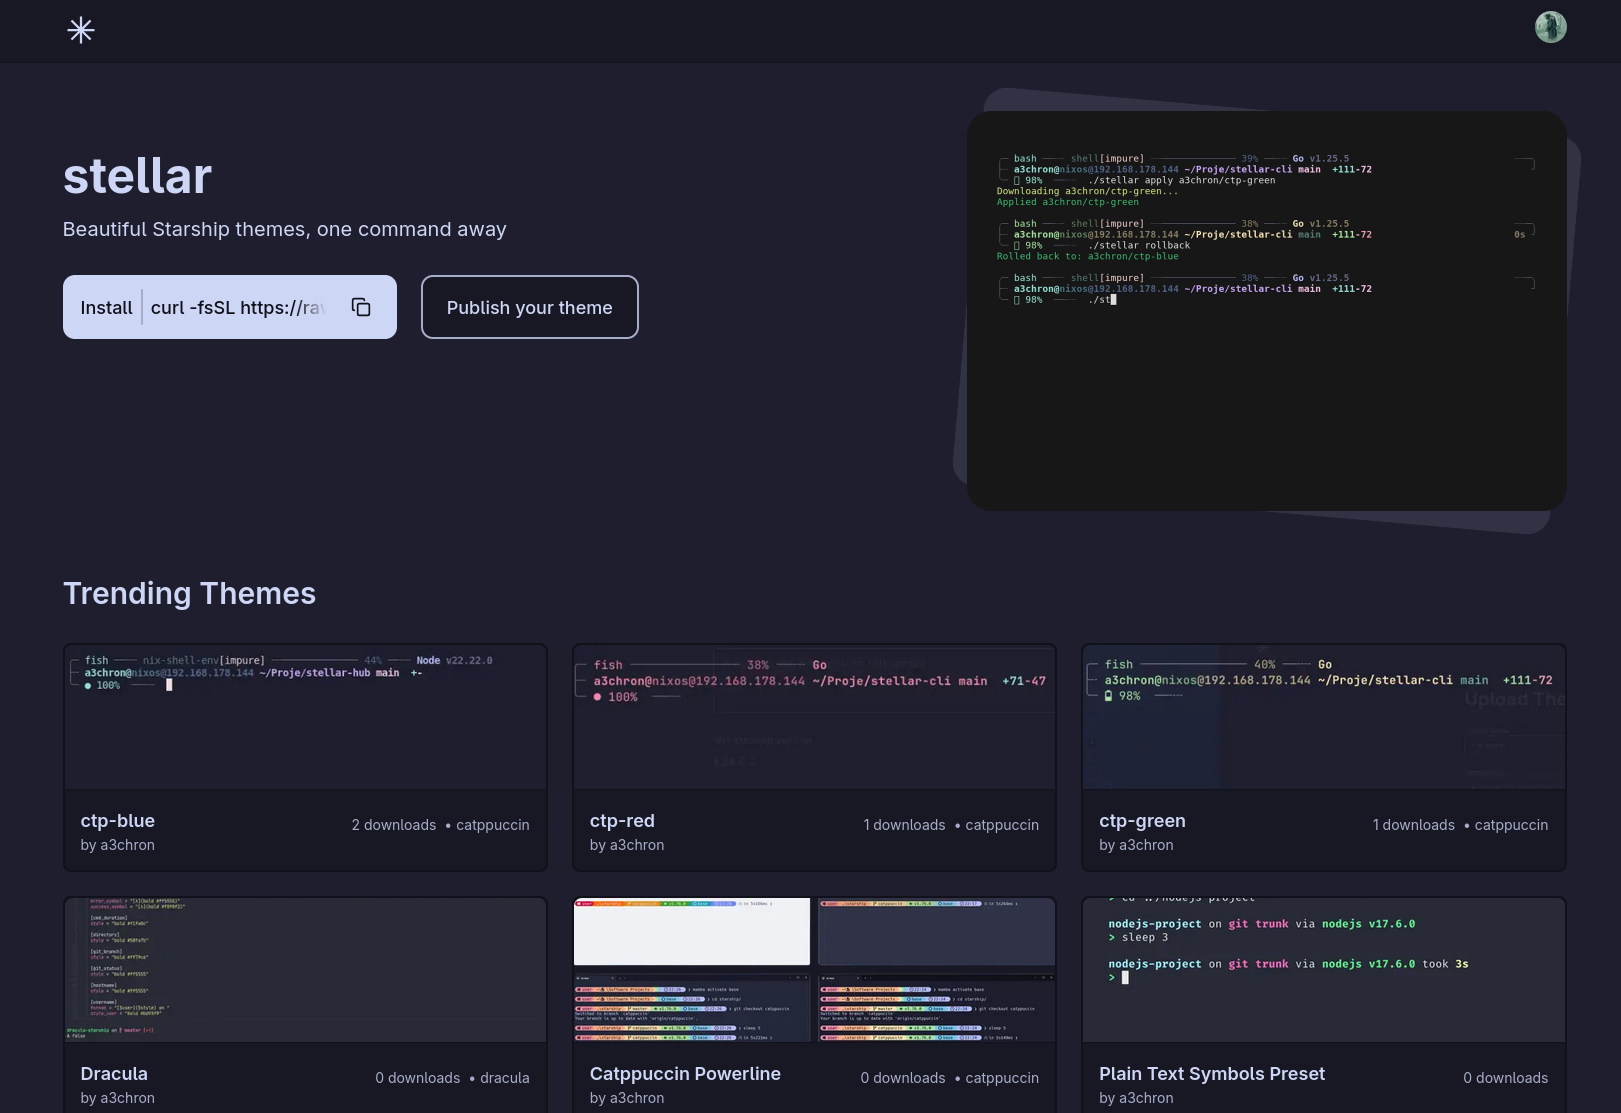
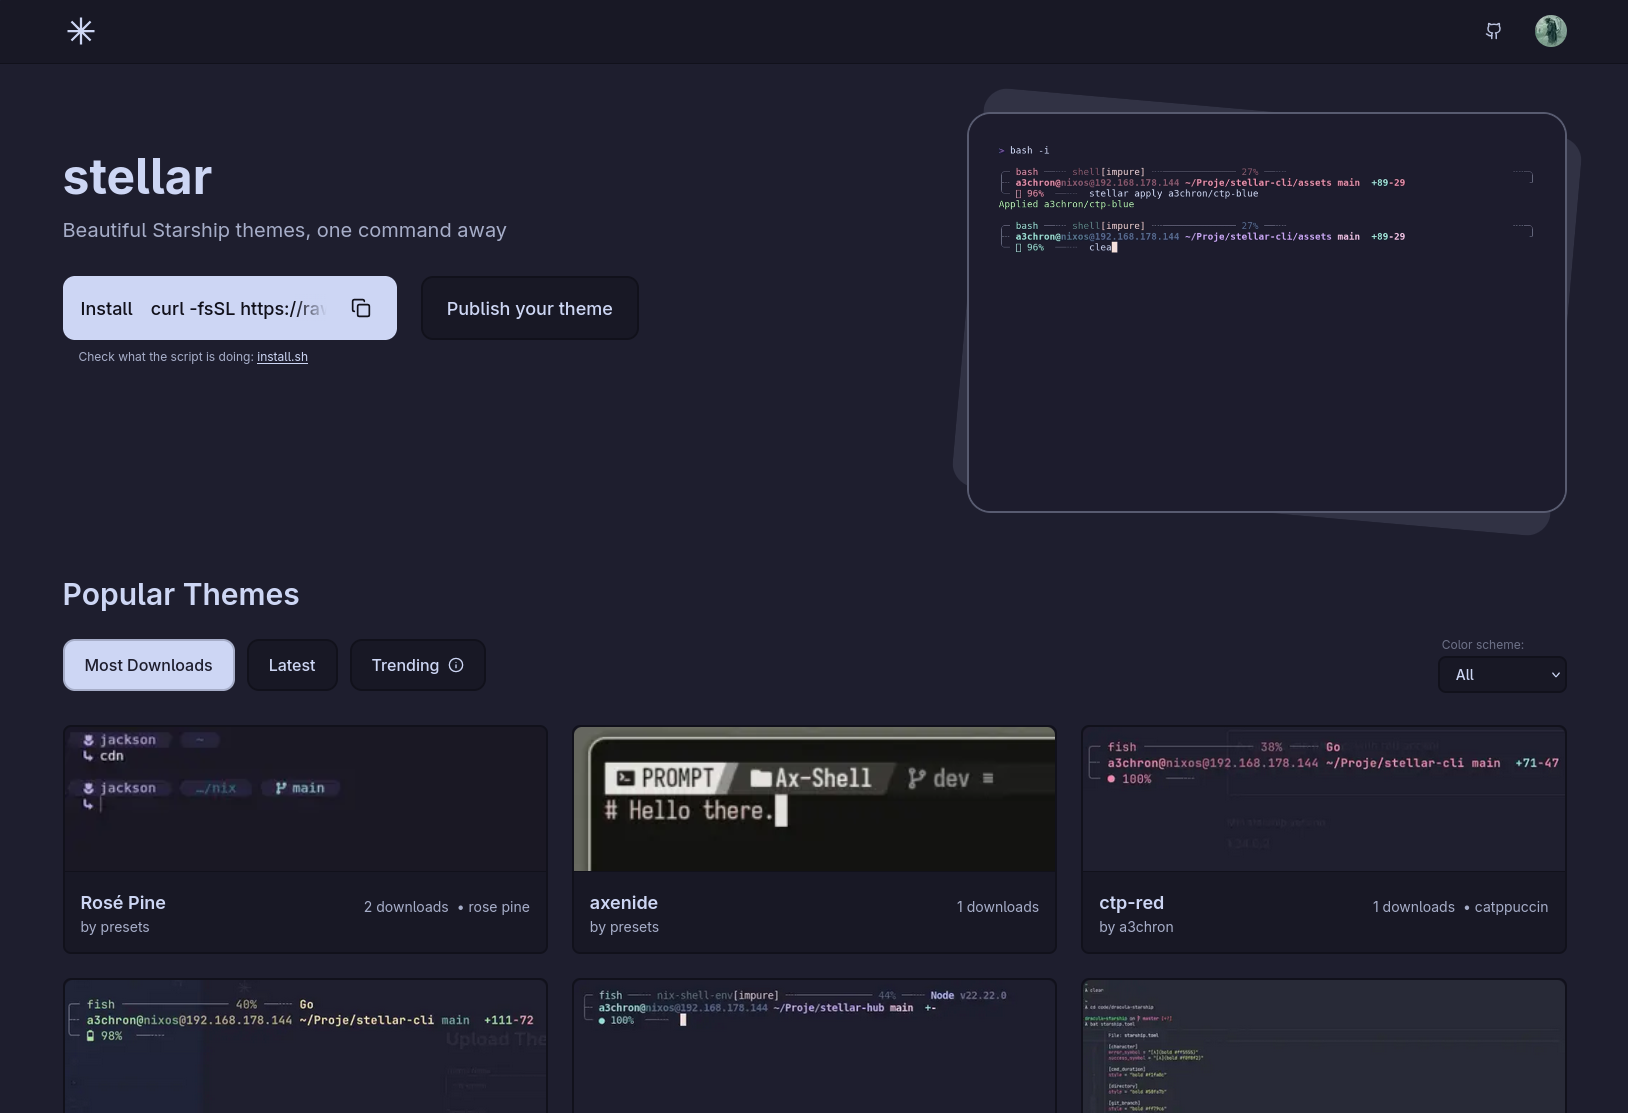
docs: add theme detail screenshot, update hub scrot

diff --git a/README.md b/README.md
@@ -2,7 +2,14 @@
 Easily get and switch between starship configs
 
 ![stellar cli demo](assets/demo.gif)
-![stellar hub](assets/web-hub.png)
+<table>
+  <tbody>
+    <tr>
+      <td><img src="assets/web-hub.png" alt="web hub preview" /></td>
+      <td><img src="assets/web-hub-theme.png" alt="web hub theme detail" /></td>
+    </tr>
+  </tbody>
+</table
 
 ## Installation
 
@@ -167,6 +174,7 @@ This error means the theme doesn't exist anywhere:
 
 ## TODOs
 
+- Add light / dark theme distinction, add filter in hub
 - **`stellar publish` command**: Upload local themes directly to stellar-hub
   - Challenge: Need to implement CLI authentication (OAuth flow with browser redirect or API keys)
   - Would read from `~/.config/stellar/<author>/<theme>/<version>.toml`
